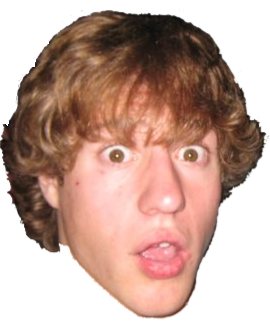
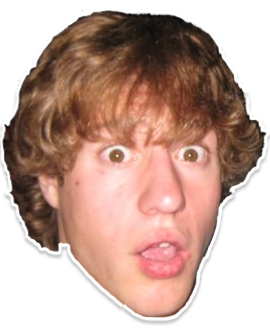
hardcoded daniel as character

diff --git a/src/components/playerData.js b/src/components/playerData.js
@@ -2,6 +2,7 @@ const players = {
   owenWilson: {
     faceImage: require('../../images/owen-wilson/owen-face.png'),
     faceImageWithBorder: require('../../images/owen-wilson/owen-face-with-border.png'),
+    gameplayImage: require('../../images/owen-wilson/owen-face.png'),
     landingText: require('../../images/owen-wilson/owen-logo-words.png'),
     itemToEat: require('../../images/owen-wilson/chicken-wing.png'),
     widthToHeightRatioFace: 200 / 233
@@ -9,6 +10,7 @@ const players = {
   daniel: {
     faceImage: require('../../images/daniel-kahle/daniel-face.png'),
     faceImageWithBorder: require('../../images/daniel-kahle/daniel-face-with-border.png'),
+    gameplayImage: require('../../images/daniel-kahle/daniel-face-with-border.png'),
     landingText: require('../../images/daniel-kahle/daniel-logo-words.png'),
     itemToEat: require('../../images/daniel-kahle/taco.png'),
     widthToHeightRatioFace: 270 / 331

diff --git a/src/components/App.js b/src/components/App.js
@@ -59,8 +59,10 @@ export default class App extends React.Component {
         })
         .catch((err) => {
           if (err === 'No JWT') {
+            console.log('No JWT')
             return checkPhoneId()
               .then(userExists => {
+                console.log('USER EXISTS: ', userExists)
                 if (userExists) {
                   this.setState({
                     showRegistration: false,
@@ -105,7 +107,8 @@ export default class App extends React.Component {
         .then(this.setState({
           loggedIn: bool,
           playing: false,
-          showPasswordLogin: true
+          showPasswordLogin: true,
+          showRegistration: true
         }))
     }
   }

diff --git a/src/components/login/loginPasswordOnlyMain.js b/src/components/login/loginPasswordOnlyMain.js
@@ -62,6 +62,11 @@ export class LoginPasswordOnlyMain extends React.Component {
     return this.setState({isFetching: true}, () => {
       return checkPhoneId()
         .then(userObject => {
+          console.log('USER OBJECT: ', userObject)
+          // If user no longer exists in database
+          if (userObject === false) {
+            return this.setState({isFetching: false}, () => this.props.setLoggedIn(false))
+          }
           this.setState({isFetching: false, username: userObject.username})
         })
     })

diff --git a/src/fetchFunctions/config.js b/src/fetchFunctions/config.js
@@ -3,9 +3,9 @@
 // doesn't support??
 //const { SERVER_BASE_URL } = require('react-native-dotenv')
 
-const SERVER_BASE_URL = 'https://owen-wilsnake-server.herokuapp.com'
+// const SERVER_BASE_URL = 'https://owen-wilsnake-server.herokuapp.com'
 // const SERVER_BASE_URL = 'http://192.168.0.4:8080'
-// const SERVER_BASE_URL = 'http://localhost:8080'
+const SERVER_BASE_URL = 'http://localhost:8080'
 
 module.exports = {
   SERVER_BASE_URL: SERVER_BASE_URL || 'http://192.168.0.4:8080'

diff --git a/src/fetchFunctions/checkPhoneId.js b/src/fetchFunctions/checkPhoneId.js
@@ -22,6 +22,7 @@ export function checkPhoneId () {
     if (response.userExists === true) {
       return Promise.resolve(response)
     } else if (response.userExists === false) {
+      console.log('FALSE BLOCK')
       return Promise.resolve(false)
     } else {
       return Promise.reject('Could not validate unique phone id')

diff --git a/src/components/gameplay/map/owenSnake/SingleOwenFace.js b/src/components/gameplay/map/owenSnake/SingleOwenFace.js
@@ -15,5 +15,5 @@ export function SingleOwenFace(props){
     }
   }
 
-  return <Animated.Image source={character.faceImage} style={owenFaceStyles.singleFace}/>
+  return <Animated.Image source={character.gameplayImage} style={owenFaceStyles.singleFace}/>
 }

diff --git a/src/components/login/registerMain.js b/src/components/login/registerMain.js
@@ -19,7 +19,7 @@ export class RegisterMain extends React.Component {
       passwordErrorMessage: '',
       isFetching: false,
       fetchErrorMessage: '',
-      registering: true
+      registering: false
     }
   }
 

diff --git a/src/fetchFunctions/login.js b/src/fetchFunctions/login.js
@@ -29,6 +29,7 @@ export function fetchLogin (username, password, phoneId=null) {
     }
   })
   .catch(error => {
+    console.log('ERR in login fetch', error)
     return Promise.reject(error)
   })
 }
